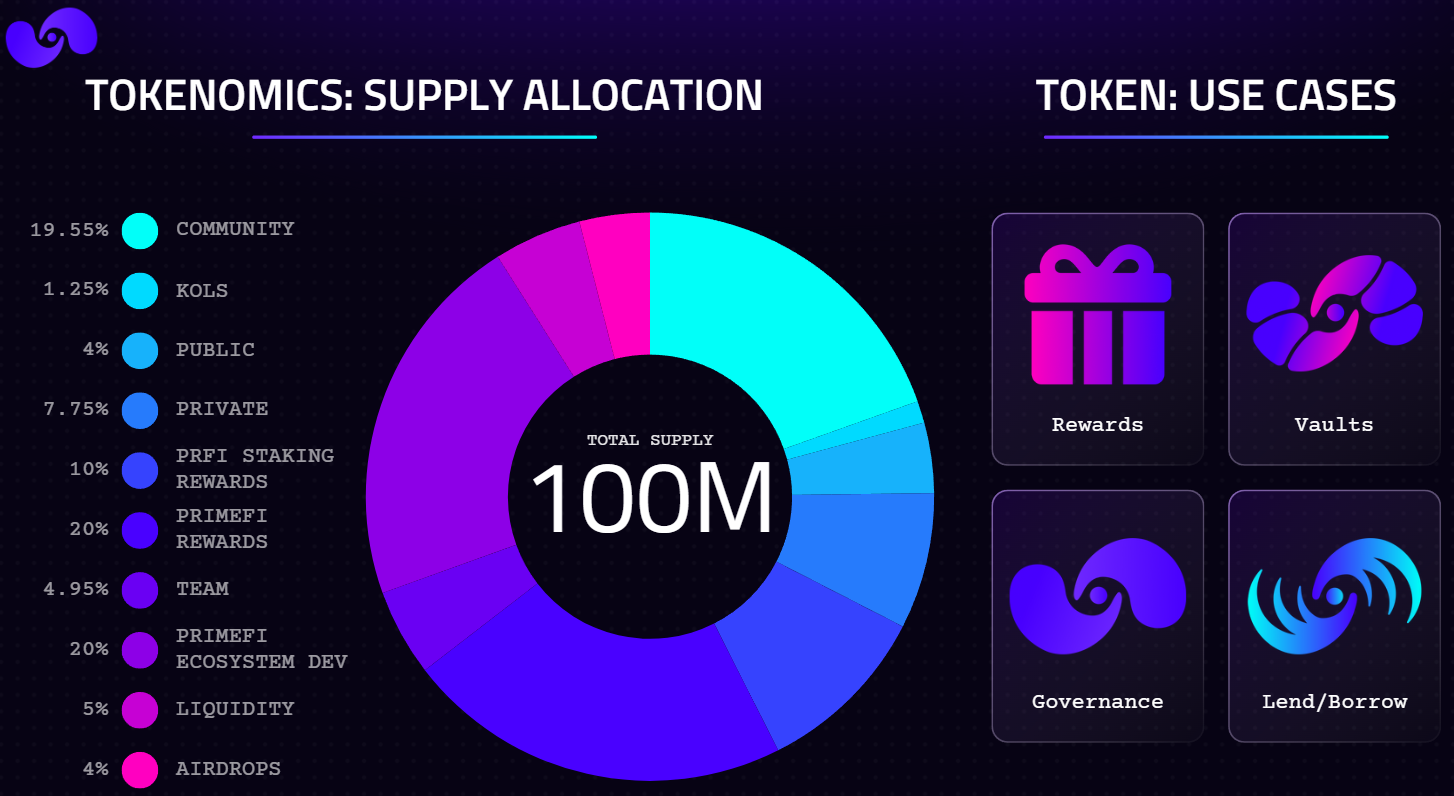
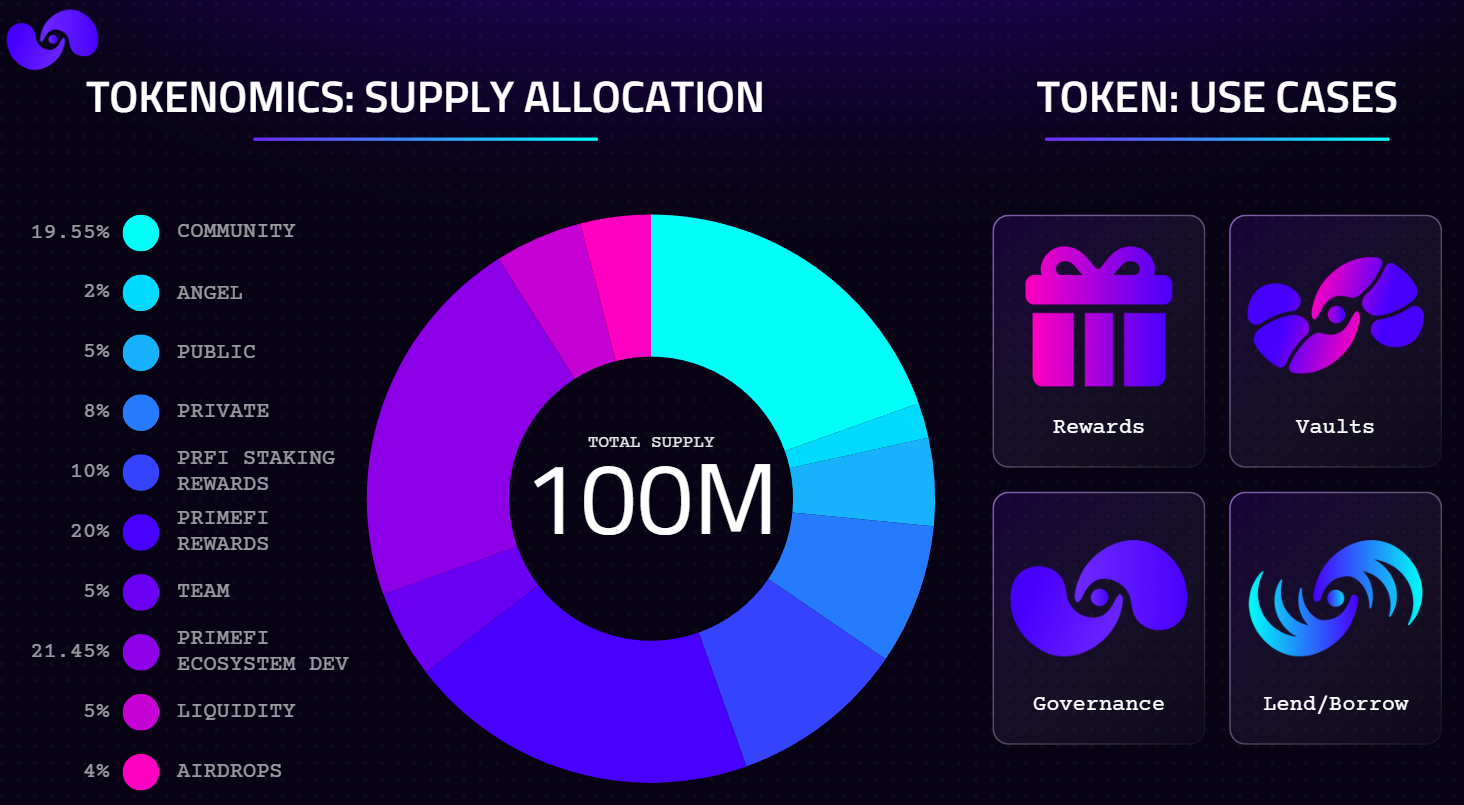
GITBOOK-193: change request with no subject merged in GitBook

diff --git a/the-ecosystem/usdprfi-token/usdprfi-tokenomics.md b/the-ecosystem/usdprfi-token/usdprfi-tokenomics.md
@@ -20,41 +20,41 @@ The PRFI token supply is capped at **100,000,000**, and its allocation is distri
 
 ***
 
-**1. KOL Round (1.25%)**
+**1. Angel Round (2%)**
 
-* **Tokens:** 1,250,000 PRFI
-* **Purpose:** Allocated to Key Opinion Leaders (KOLs) who advocate for and promote Prime Numbers Labs.
-* **Rationale:** Boosts visibility and attracts early adopters through trusted influencers.
+* **Tokens:** 2,000,000 PRFI
+* **Purpose:** Allocated to Angel investors.
+* **Rationale:** Secures strategic funding and knowledge of the protocol.
 
 ***
 
-**2. Private Round (7.75%)**
+**2. Private Round (8%)**
 
-* **Tokens:** 7,750,000 PRFI
+* **Tokens:** 8,000,000 PRFI
 * **Purpose:** Reserved for early-stage investors who support the project during its formative phase.
 * **Rationale:** Secures strategic funding from institutional or individual investors.
 
 ***
 
-**3. Public Round (4.00%)**
+**3. Public Round (5.00%)**
 
-* **Tokens:** 4,000,000 PRFI
+* **Tokens:** 5,000,000 PRFI
 * **Purpose:** Distributed to participants during the public token sale.
 * **Rationale:** Provides access to a broad community and establishes the circulating supply.
 
 ***
 
-**4. Team (4.95%)**
+**4. Team (5%)**
 
-* **Tokens:** 4,950,000 PRFI
+* **Tokens:** 5,000,000 PRFI
 * **Purpose:** Allocated to Prime Numbers Labs’ core team and contributors.
 * **Rationale:** Motivates and rewards the team for their long-term commitment. Often subject to vesting schedules to ensure alignment with project growth.
 
 ***
 
-**5. Ecosystem Development (21.50%)**
+**5. Ecosystem Development (21.45%)**
 
-* **Tokens:** 21,500,000 PRFI
+* **Tokens:** 21,450,000 PRFI
 * **Purpose:** Funds used to expand and strengthen the Prime Numbers Labs ecosystem.
 * **Rationale:** Supports initiatives such as partnerships, integrations, and product development.
 
@@ -83,9 +83,9 @@ The PRFI token supply is capped at **100,000,000**, and its allocation is distri
 
 ***
 
-**9. LP Incentives (22.00%)**
+**9. LP Incentives (20.00%)**
 
-* **Tokens:** 22,000,000 PRFI
+* **Tokens:** 20,000,000 PRFI
 * **Purpose:** Rewards liquidity providers for maintaining healthy liquidity pools for PRFI.
 * **Rationale:** Ensures smooth trading on decentralized exchanges, reducing slippage and volatility.
 
